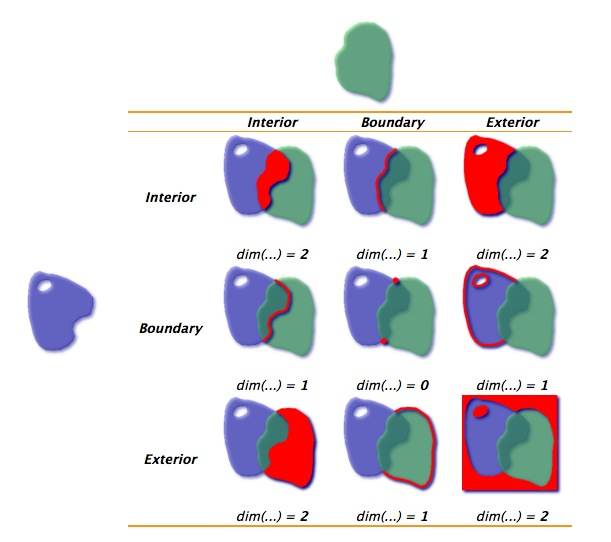
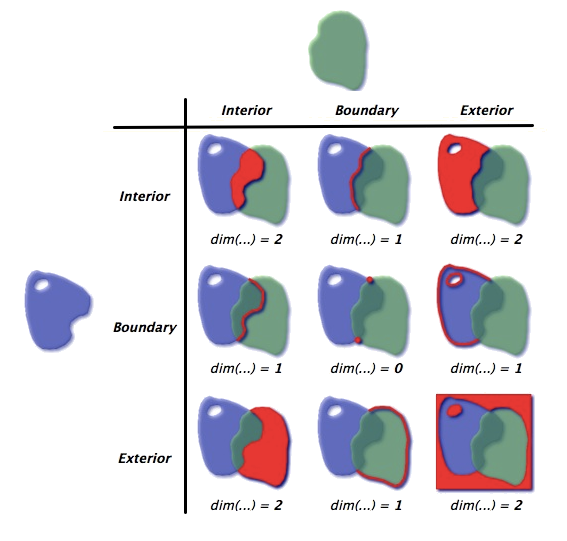
Copyedit changes and new graphics (SUITE-1067)

Changed region(s): [[0.1799, 0.0, 0.9594, 0.976], [0.03, 0.5028, 0.1799, 0.6506], [0.5996, 0.7985, 0.6296, 0.8577]]

diff --git a/docs/usermanual/source/dataadmin/pgAdvanced/de9im.rst b/docs/usermanual/source/dataadmin/pgAdvanced/de9im.rst
@@ -1,7 +1,5 @@
 .. _dataadmin.pgAdvanced.de9im:
 
-.. warning:: Document status: **Requires copyedit review**
-
 Dimensionally Extended 9-Intersection model
 ===========================================
 
@@ -13,11 +11,11 @@ Every spatial object is characterized by the following spatial attributes:
  * A boundary
  * An exterior
 
-For polygons, these attributes are obvious:
+For polygons, these attributes are as follows:
 
 .. figure:: ./img/de9im1.png
    
-   *Polygon interior and boundary*
+   *Polygon interior, boundary, and exterior*
 
 The interior is bounded by the rings, the boundary is represented by the rings themselves, and the exterior is everything else beyond the boundary.
 
@@ -31,13 +29,17 @@ The interior is the part of the line bounded by the ends, the boundary is repres
 
 For points, the interior is the point, the boundary is an empty set, and the exterior is everything that is not the point.
 
+.. figure:: ./img/de9im13.png
+
+   *Point interior*
+
 Using these definitions of interior, boundary, and exterior attributes, the relationships between any pair of spatial features can be characterized using the dimensionality of the nine possible intersections between the interiors, boundaries, and exteriors.
 
 .. figure:: ./img/de9im3.png
 
    *Modelling object interactions*
 
-For the polygons in the example above, the intersection of the interiors is a two-dimensional area, so that portion of the matrix is completed with a **2**. The boundaries only intersect at points, which are zero-dimensional, so that portion of the matrix is completed with a **0**. When there is no intersection between components, the matrix is filled out with an **F**.
+For the polygons in the example above, the intersection of the interiors is a two-dimensional area, so that portion of the matrix is completed with a **2**. If the boundaries intersect along a line, that portion of the matrix is completed with a **1**. When the boundaries only intersect at points, which are zero-dimensional, that portion of the matrix is completed with a **0**. When there is no intersection between components, the matrix is filled out with an **F**.
 
 In this next example, a linestring intersects a polygon:
 
@@ -52,6 +54,9 @@ The DE9IM matrix for the interaction is represented as follows:
   *DE9IM model for the intersection*
 
 Note that the boundaries of the two objects don't intersect at all (the end point of the line interacts with the interior of the polygon, not the boundary, and vice versa), so the B/B (boundary/boundary) cell is completed with an **F**. 
+
+DE9IM model in PostGIS
+----------------------
 
 In PostGIS, the :command:`ST_Relate` function will compile a DE9IM matrix and return a string representing the DE9IM relationship between the two input geometries.
 
@@ -124,7 +129,11 @@ To find all the legal docks, identify the docks that intersect lakes (a super-se
   FROM docks JOIN lakes ON ST_Intersects(docks.geom, lakes.geom)
   WHERE ST_Relate(docks.geom, lakes.geom, '1FF00F212');
 
-This identifies two valid docks. Note the use of the three-parameter version of :command:`ST_Relate`, which returns *true* if the pattern matches or *false* if it does not. For a fully defined pattern like this one, the three-parameter version is not required and a string equality operator could have been used.
+This identifies two valid docks. 
+
+.. todo:: add code block here
+
+Note the use of the three-parameter version of :command:`ST_Relate`, which returns *true* if the pattern matches or *false* if it does not. For a fully defined pattern like this one, the three-parameter version is not required and a string equality operator could have been used.
 
 However, for less rigorous pattern searches, the three-parameter allows substitution characters in the pattern string:
 
@@ -158,17 +167,19 @@ The resulting SQL is as follows:
 
 This will identify all three valid docks. 
 
+.. todo:: add code block
+
 
 Data quality testing
-~~~~~~~~~~~~~~~~~~~~
+--------------------
 
-TIGER (Topologically Integrated Geographic Encoding and Referencing) census data is quality controlled according to strict data model rules. For example, no census block should overlap any other census block. 
+`TIGER <http://www.census.gov/geo/maps-data/data/tiger.html>`_ (Topologically Integrated Geographic Encoding and Referencing) census data is quality controlled according to strict data model rules. For example, no census block should overlap any other census block. 
 
 .. figure:: ./img/de9im11.png
 
   *Overlapping census blocks*
 
-The following SQL command will test for any overlaps.
+The following SQL command will test for any overlaps. The matrix value ('2********') represents an overlap of two interiors.
 
 .. code-block:: sql
 
@@ -181,13 +192,13 @@ The following SQL command will test for any overlaps.
 
 This returns **0**, confirming the data is clean and no overlaps were detected.
 
-Similarly, all roads data should be end-noded, which means intersections only occur at the ends of each street, not at the mid-points. 
+Similarly, the TIGER data model also requires all roads data to be end-noded, which means intersections only occur at the ends of each street, not at the mid-points. 
 
 .. figure:: ./img/de9im12.png
 
    *Road intersections*
 
-To test for this data model error, search for streets that intersect (a join operation) but where the intersection between the boundaries is not zero-dimensional (the end points don't touch).
+To test for this data model error, search for streets that intersect, using a join operation, but where the intersection between the boundaries is not zero-dimensional (the end points don't touch).
 
 .. code-block:: sql
 

diff --git a/docs/usermanual/source/dataadmin/pgAdvanced/linear_referencing.rst b/docs/usermanual/source/dataadmin/pgAdvanced/linear_referencing.rst
@@ -1,13 +1,12 @@
 .. _dataadmin.pgAdvanced.linear_referencing:
 
-.. warning:: Document status: **Requires copyedit review**
 
 Linear referencing
 ==================
 
 Linear referencing allows you to identify the locations of features using a relative measure along a linear feature. Some linear referencing examples include:
 
-  * Highway assets—Referenced by a unit of measurement (miles, kilometers, and and so on) along a highway network
+  * Highway assets—Referenced by a unit of measurement (miles, kilometers, and so on) along a highway network
   * Road maintenance operations—Referenced as occurring along a road network between a pair of measurements
   * Aquatic inventories—Fish presence is recorded as existing between a pair of upstream measurements on a stream network
   * Hydrologic characterizations (reaches) of streams—Recorded with a *from* and *to* measurement on a stream network
@@ -23,21 +22,29 @@ One of the main benefits of linear referencing is dependent spatial observations
 Creating linear references
 --------------------------
 
-To reference an existing point table to a linear network, use the :command:`ST_Line_Locate_Point` function. This function accepts a line and point, and returns the proportion along the line the point is located. In the following example, a point is located half-way along a line.
+To reference an existing point table to a linear network, use the :command:`ST_Line_Locate_Point` function. This function accepts a line and point, and returns a value representing the proportion along the line the point is located. In the following example, a point is located half-way along a line.
 
 .. code-block:: sql
 
   SELECT ST_Line_Locate_Point('LINESTRING(0 0, 2 2)', 'POINT(1 1)');
+
+.. figure:: ./img/lrs3.png
+
+   *Locating a point along a line feature*  
   
-The answer returned is 0.5—the distance along the line feature the point was located. If the point is not on the line, the result is determined by projecting to the closest point.
+The answer returned is 0.5—the distance along the line feature the point was located. If the point is not on the line, the result is determined by projecting to the closest location on the line.
   
 .. code-block:: sql
 
   SELECT ST_Line_Locate_Point('LINESTRING(0 0, 2 2)', 'POINT(0 2)');
 
 Again, the answer returned is 0.5.
-  
-To convert a **nyc_subway_stations** table into an *event table* relative to the streets, use the function :command:`ST_Line_Locate_Point`. Create a new event table and identify a candidate set of streets that could be the closest to the subway stations. Order the streets by the id and distance attributes.
+
+.. figure:: ./img/lrs4.png
+
+   *Locating a point near a line feature*    
+
+To convert a **nyc_subway_stations** table into an *event table* relative to the streets, use the function :command:`ST_Line_Locate_Point`. Create a new event table and identify a candidate set of streets that could be the closest to the subway stations. Order the streets by the ``id`` and ``distance`` attributes.
 
 .. code-block:: sql
 
@@ -67,7 +74,7 @@ Use the PostgreSQL :command:`DISTINCT ON` feature to identify the nearest street
     distance
   FROM ordered_nearest;
 
-To support visualization application software that require access the results, add a primary key.
+To support visualization application software that require access to the results, add a primary key.
 
 .. code-block:: sql
 
@@ -79,9 +86,13 @@ To reverse the process and go from a measurement to a point, use the :command:`S
 
   SELECT ST_AsText(ST_Line_Interpolate_Point('LINESTRING(0 0, 2 2)', 0.5));
 
-The answer returned this time is the location of the point—POINT(1 1).
+The answer returned this time is the location of the point.
 
-You can also join the **nyc_subway_station_events** table back to the **nyc_streets** table and use the **measure** attribute to generate the spatial event points, without referencing the original **nyc_subway_stations** table. First, create a view that turns events back into spatial objects.
+.. code-block:: console
+
+   POINT(1 1)
+
+You can also join the **nyc_subway_station_events** table back to the **nyc_streets** table and use the **measure** attribute to generate the spatial event points, without referencing the original **nyc_subway_stations** table.  The following example illustrates how to create a view that turns events back into spatial objects.
 
 .. code-block:: sql
 

diff --git a/docs/usermanual/source/dataadmin/pgAdvanced/history_tracking.rst b/docs/usermanual/source/dataadmin/pgAdvanced/history_tracking.rst
@@ -1,11 +1,9 @@
 .. _dataadmin.pgAdvanced.history_tracking:
 
-.. warning:: Document status: **Requires copyedit review**
-
 Tracking edit history using triggers
 ====================================
 
-A common requirement for production databases is the ability to track history—how has the data changed, who made the changes, and where did those changes occur? Although some GIS systems track changes by including change management in the client interface, it is also possible to implement tracking within a database, using the internal trigger system to track changes made to any table. This means simple *direct edit* access on the main table is retained, while history is tracked in the background.
+A common requirement for production databases is the ability to track history—how has the data changed, who made the changes, and where did those changes occur? Although some GIS applications track changes by including change management in the client interface, it is also possible to implement tracking within a database, using the internal trigger system to track changes made to any table. This means simple *direct edit* access on the main table is retained, while history is tracked in the background.
 
 To enable database edit history, a history table is created to record the following information for every edit:
 
@@ -125,19 +123,17 @@ Using the information in a history table, it is possible to reconstruct the stat
 
   #. Test the history tracking by making some changes to the **nyc_streets** table. Each edit should result in new time-stamped and user-stamped records in the **nyc_streets_history** table, regardless of the edit tool or application used to make those changes.
 
+     .. todo:: add some 'event' output
+
 
 Querying the history table
 ~~~~~~~~~~~~~~~~~~~~~~~~~~
 
-Database views can be used to track both the changes made to the main table and the users making those changes.
+Database views can be used to track both the changes made to the main table, and the users making those changes.
 
 To create a view of the history table that shows the state of the table before the current edit session began, execute the following (in this example the changes were made in the last hour):
 
 .. code-block:: sql
-
-  -- State of history one hour ago
-  -- Records must have been created at least an hour ago and
-  -- either be visible now (deleted is null) or deleted in the last hour
 
   CREATE OR REPLACE VIEW nyc_streets_one_hour_ago AS
     SELECT * FROM nyc_streets_history

diff --git a/docs/usermanual/source/dataadmin/pgAdvanced/index.rst b/docs/usermanual/source/dataadmin/pgAdvanced/index.rst
@@ -12,6 +12,6 @@ This section describes techniques for analyzing your data with PostGIS, and incl
 .. toctree::
    :maxdepth: 2
 
-   de9im
    linear_referencing
    history_tracking
+   de9im
